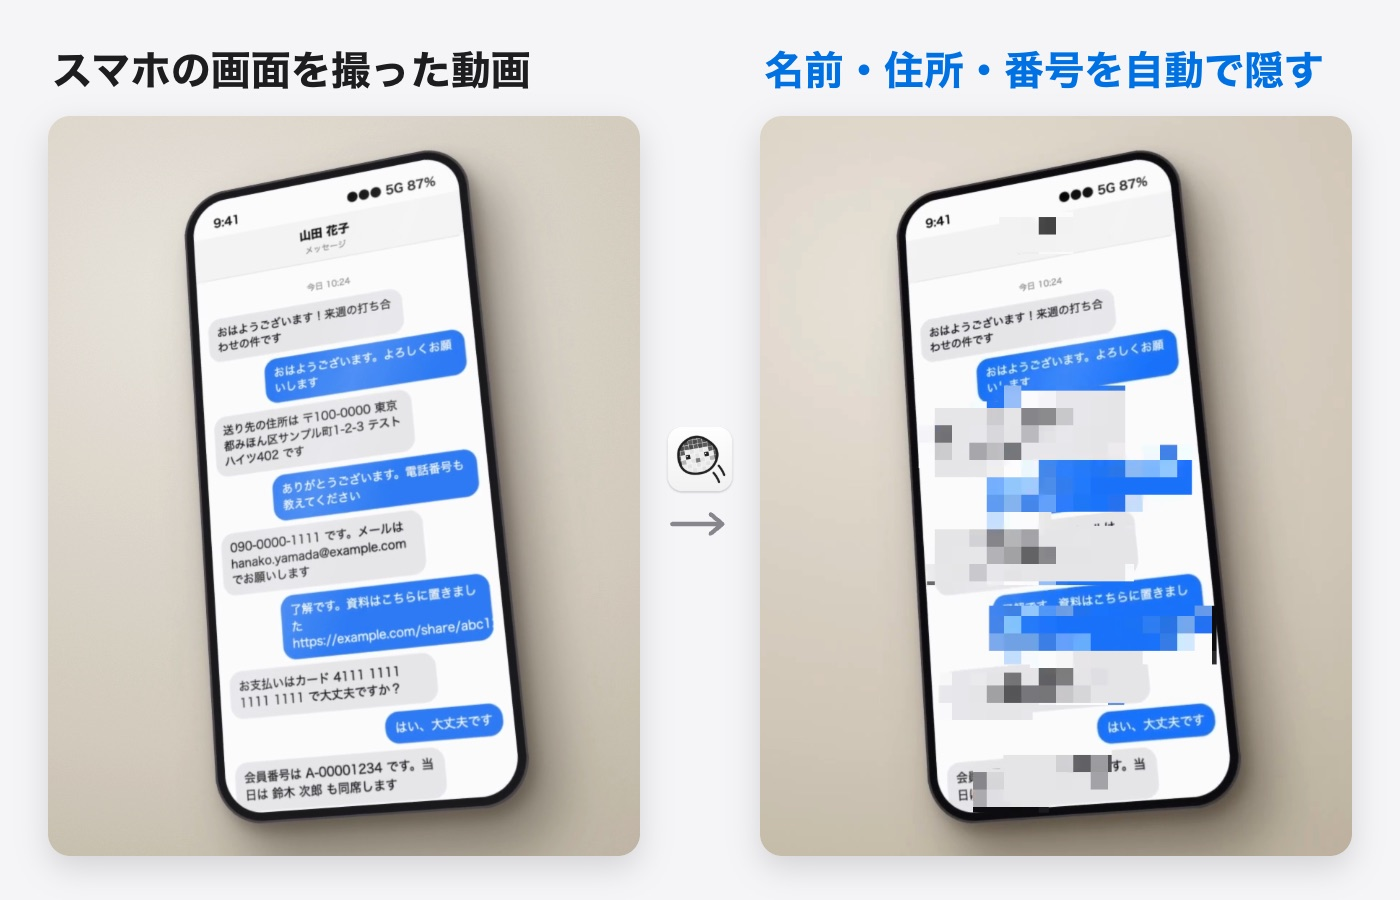
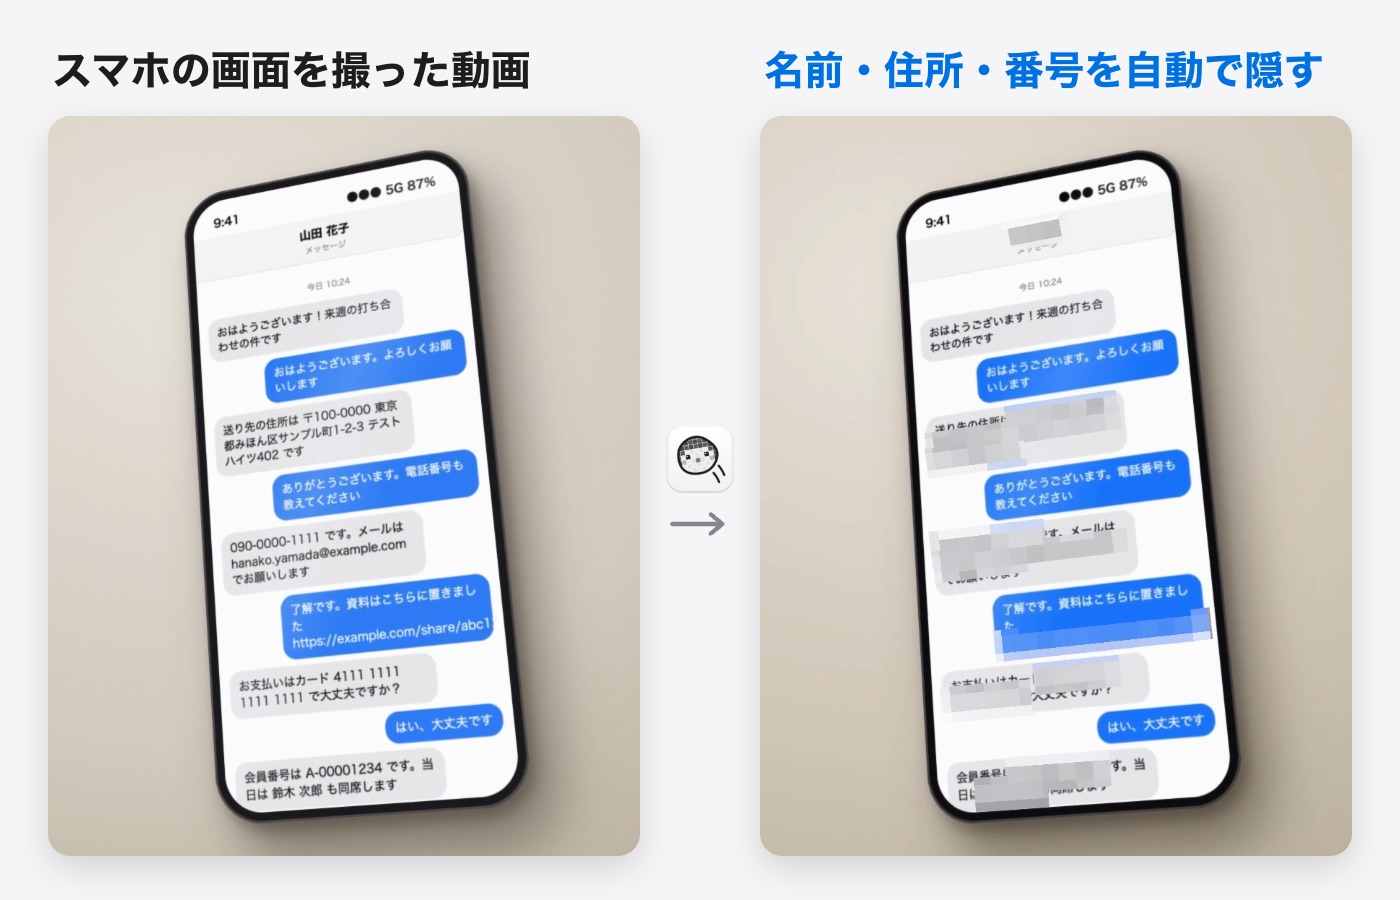
fix(text): 1 回だけ読めた斜めの行の前後を隠すときに落ちないようにする
斜めのトラックが 1 サンプルしかないと、延長中の傾きの余白で最後の 2 回の
読み取りの差を見ようとして、範囲外の添字で落ちていた（スマホの画面を撮った
README の冒頭の動画で再現）。1 回だけなら測った余白だけを使う。他の延長の
処理はすでに 1 サンプルを守っていた。セルフチェックを足し、守りを外すと
落ちることを確かめた。

あわせて、README の冒頭の画像を傾きに沿って隠す今の書き出しで撮り直し、
スタンプが顔の傾きに合わせて傾くことを「できること」とよくある質問に書く。

Changed region(s): [[0.645, 0.4044, 0.8907, 0.8089], [0.6757, 0.84, 0.7986, 0.9022], [0.7064, 0.2178, 0.7679, 0.28]]

diff --git a/Sources/WipeMosaicCore/Text.swift b/Sources/WipeMosaicCore/Text.swift
@@ -140,7 +140,10 @@ public struct TextTrack: Sendable {
     func tiltSlack(atFrame f: Int, times: [Double]) -> CGFloat {
         guard isTilted else { return 0 }
         if f < first || f > last {
-            let k = f < first ? 0 : samples.count - 1, j = f < first ? min(1, samples.count - 1) : max(0, samples.count - 2)
+            let k = f < first ? 0 : samples.count - 1
+            // Read once: no turn measured, and no interval to continue it by.
+            guard samples.count > 1 else { return tiltSlacks[k] }
+            let j = f < first ? 1 : samples.count - 2
             return tiltSlacks[k] + abs(tilts[k] - tilts[j]) * extensionFactor(atFrame: f, times: times)
         }
         let lo = sampleIndex(atOrAfter: f)
@@ -2108,6 +2111,11 @@ func selfCheckMask() -> [String] {
     // The slant read 0.6° too steep: the height found from the box shrinks by about a third,
     // and the ends of the long line turn 4 px off its axis; the measured height and the slack
     // of the slant keep them in.
+    // A slanted line read only once is continued before and after it (it crashed: the turn
+    // between the last two readings was looked up).
+    let readOnce = slantedSamples([(10, CGPoint(x: 500, y: 500))])
+    let onceMask = screen([readOnce]).mask(numbers)
+    expect(readOnce.isTilted && onceMask.slanted[11].count == 1 && onceMask.slanted[9].count == 1, "slanted: a line read once is hidden around it")
     let steep = slantedSamples([(0, CGPoint(x: 500, y: 500)), (15, CGPoint(x: 500, y: 500)), (30, CGPoint(x: 500, y: 500))],
                                length: 800, readAt: 20.6)
     let steepMask = screen([steep]).mask(numbers)
